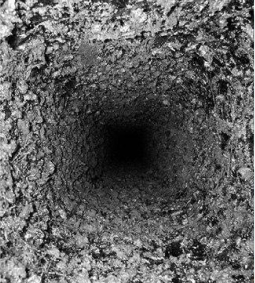
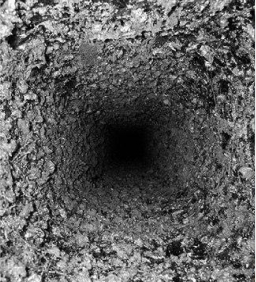
service

diff --git a/src/partials/service.html b/src/partials/service.html
@@ -1,0 +1,62 @@
+<section class="service">
+    <div class="servise container">
+        <h2 class="service__title">Как заказать услуги</h2>
+        <div class="service-wrapper">
+            <ul class="service-steps list">
+                <li class="service-step">
+                    <div class="service-step-img">
+                        <picture>            
+                            <source media="(min-width: 1440px)" 
+                            srcset="images/desktop/service/mobile.png 1x"/>            
+                            <source media="(min-width: 768px)"
+                             srcset="images/tablet/service/mobile.png 1x"/>            
+                            <source media="(max-width: 767px)" 
+                            srcset="images/mobile/service/mobile.png 1x"/> 
+                            <img class="mobile" src="#" alt="оставить заявку" />
+                        </picture>
+                    </div>
+                    <div class="service-step-deskription">
+                        <h3 class="service-step-description-title">Заявка</h3>
+                        <p class="service-step-description-desk">Вы оставляете заявку на вызов специалиста.</p>                    
+                    </div>
+                    <button class="button" type="button">Оставить заявку</button>
+                </li>
+                <li class="service-step">
+                    <div class="service-step-img">
+                        <picture>            
+                            <source media="(min-width: 1440px)" 
+                            srcset="images/desktop/service/car.png 1x"/>            
+                            <source media="(min-width: 768px)"
+                             srcset="images/tablet/service/car.png 1x"/>            
+                            <source media="(max-width: 767px)" 
+                            srcset="images/mobile/service/car.png 1x"/> 
+                            <img class="car" src="#" alt="Вызов мастера" />
+                        </picture>
+                    </div>
+                    <div class="service-step-deskription">
+                        <h3 class="service-step-description-title">Вызов мастера</h3>
+                        <p class="service-step-description-desk">Наш мастер выезжает к Вам на объект.</p>                    
+                    </div>
+                </li>
+                <li class="service-step">
+                    <div class="service-step-img">
+                        <picture>            
+                            <source media="(min-width: 1440px)" 
+                            srcset="images/desktop/service/clean.png 1x"/>            
+                            <source media="(min-width: 768px)"
+                             srcset="images/tablet/service/clean.png 1x"/>            
+                            <source media="(max-width: 767px)" 
+                            srcset="images/mobile/service/clean.png 1x"/> 
+                            <img class="clean" src="#" alt="Чистка" />
+                        </picture>
+                    </div>
+                    <div class="service-step-deskription">
+                        <h3 class="service-step-description-title">Чистка</h3>
+                        <p class="service-step-description-desk">Специалист, используя профессиональное обрудование, осуществляет тщательную очистку от сажи.</p>                    
+                    </div>
+                </li>
+            </ul>
+        </div>
+    </div>
+    
+</section>

diff --git a/src/partials/before-and-after.html b/src/partials/before-and-after.html
@@ -82,7 +82,7 @@
                   <picture>
                     <source
                       media="(min-width: 1440px)"
-                      srcset="./images/desktop/before-after/Before.jpg 1x"
+                      srcset="./images/desktop/before-after/before1.jpg 1x"
                     />
                     <source
                       media="(min-width: 768px)"
@@ -123,7 +123,7 @@
                   <picture>
                     <source
                       media="(min-width: 1440px)"
-                      srcset="images/desktop/before-after/after.jpg 1x"
+                      srcset="images/desktop/before-after/after1.jpg 1x"
                     />
                     <source
                       media="(min-width: 768px)"
@@ -150,7 +150,7 @@
                   <picture>
                     <source
                       media="(min-width: 1440px)"
-                      srcset="./images/desktop/before-after/Before.jpg 1x"
+                      srcset="./images/desktop/before-after/before2.jpg 1x"
                     />
                     <source
                       media="(min-width: 768px)"
@@ -191,7 +191,7 @@
                   <picture>
                     <source
                       media="(min-width: 1440px)"
-                      srcset="images/desktop/before-after/after.jpg 1x"
+                      srcset="images/desktop/before-after/after2.jpg 1x"
                     />
                     <source
                       media="(min-width: 768px)"

diff --git a/src/sass/layout/_service.scss b/src/sass/layout/_service.scss
@@ -1,0 +1,37 @@
+.servise.container {
+  background: url('../images/mobile/service/bg-mobile.png') no-repeat;
+  background-size: cover;
+  padding-top: 50px;
+  padding-bottom: 50px;
+}
+.service__title {
+  font-family: Montserrat;
+  font-weight: 700;
+  font-size: 24px;
+  line-height: 1.42;
+  color: #ff7d28;
+  margin-bottom: 21px;
+}
+.service-step {
+  display: flex;
+  flex-direction: column;
+  justify-content: center;
+  align-items: center;
+}
+.service-step-deskription {
+  display: flex;
+  flex-direction: column;
+  justify-content: center;
+  align-items: center;
+}
+
+@media screen and (min-width: 768px) {
+  .servise.container {
+    background: url('../images/tablet/service/bg-tablet.png') no-repeat;
+  }
+}
+@media screen and (min-width: 1440px) {
+  .servise.container {
+    background: url('../images/desktop/service/bg-desktop2.jpg') no-repeat;
+  }
+}

diff --git a/src/sass/layout/_before-and-after.scss b/src/sass/layout/_before-and-after.scss
@@ -132,15 +132,31 @@ ul.slick-dots {
   }
 }
 @media screen and (min-width: 1440px) {
+  .before-and-after .container {
+    position: relative;
+  }
   .before-and-after .slick-track {
     margin-bottom: 272px;
   }
   .before-and-after__title {
-    font-size: 36px;
-    line-height: 1.39;
-    text-align: left;
-    margin-bottom: 50px;
+    font-size: 48px;
+    line-height: 1.4;
+    text-align: right;
+    margin-bottom: 43px;
   }
+
+  .before-and-after__title::before {
+    content: '';
+    position: absolute;
+    display: block;
+    left: 0%;
+    top: 65px;
+    width: 700px;
+    height: 5px;
+    background-color: #ff7d28;
+    border-radius: 2px;
+  }
+
   .before-and-after__description {
     font-size: 36px;
     line-height: 1.39;

diff --git a/src/index.html b/src/index.html
@@ -38,6 +38,7 @@
       <include src="./partials/cleaning.html"></include>
       <include src="./partials/video-blog.html"></include>
       <include src="./partials/before-and-after.html"></include>
+      <include src="./partials/service.html"></include>
     </main>
 
     <!-- Скрипт идёт последним в разметке. В нём уже подключен главный SASS-файл. -->

diff --git a/src/sass/layout/_cleaning.scss b/src/sass/layout/_cleaning.scss
@@ -33,7 +33,9 @@
 ul.slick-dots {
   padding-left: 0;
 }
-
+.before-and-after.section {
+  padding-bottom: 0;
+}
 .cleaning-title {
   font-family: Montserrat;
   font-weight: 700;

diff --git a/src/sass/main.scss b/src/sass/main.scss
@@ -17,3 +17,4 @@
 @import './layout/cleaning';
 @import './layout/video-blog';
 @import './layout/before-and-after';
+@import './layout/service';
